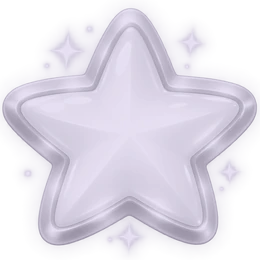
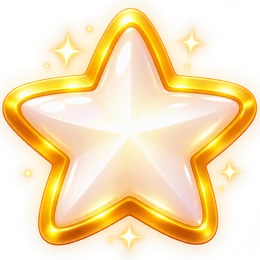
Lit star uses the new gold star; the white star becomes the unlit one
Claude-Session: https://claude.ai/code/session_01AtPrjwobxeDtWKkej1gnXv

diff --git a/sw.js b/sw.js
@@ -1,7 +1,7 @@
 /* BEAM service worker: the game keeps working with no connection.
    The page itself is fetched fresh whenever the network answers, so updates arrive on the next visit;
    everything else (clips, icons) is served from the cache first. Bump VERSION when those files change. */
-const VERSION = 'beam-v19';
+const VERSION = 'beam-v20';
 const SHELL = ['./', 'manifest.webmanifest', 'icon.webp', 'icons/icon-192.png', 'icons/icon-512.png', 'icons/favicon-32.png', 'icons/favicon-96.png', 'icons/apple-180.png', 'media/cheer2.mp4', 'media/fly.mp4', 'media/hero.webp', 'media/garden/bg.webp', 'media/map/bg.webp', 'media/ui/shop.webp', 'media/ui/home.webp', 'media/ui/invite.webp', 'media/ui/trophy.webp', 'media/ui/decor.webp', 'media/ui/duel.webp', 'media/ui/medal.webp', 'media/ui/calendar.webp', 'media/ui/gift.webp', 'media/ui/help.webp', 'media/ui/gear.webp', 'media/ui/star.webp', 'media/board/frame.webp', 'media/board/bg.webp', 'media/board/t-blue.webp', 'media/board/t-green.webp', 'media/board/t-orange.webp', 'media/board/t-purple.webp', 'media/board/wall.webp', 'media/board/bomb.webp', 'media/board/mir-a.webp', 'media/board/mir-b.webp', 'media/board/star.webp', 'media/board/star-off.webp', 'media/board/fly.webp'];
 
 self.addEventListener('install', e => {

diff --git a/index.html b/index.html
@@ -1598,7 +1598,7 @@ function starPath(cx, cy, R, r) {
 function star(g, cx, cy, on, fid) {
   if (painted()) {
     if (on) el('circle', { cx, cy, r: .42, fill: '#FFD23F', opacity: .8, class: 'starglow', filter: fid ? `url(#${fid})` : '' }, g);
-    return pic(g, on ? 'star' : 'star-off', cx - .41, cy - .4, .82, .8, on ? 'st on' : 'st');
+    return on ? pic(g, 'star', cx - .52, cy - .52, 1.04, 1.04, 'st on') : pic(g, 'star-off', cx - .38, cy - .38, .76, .76, 'st');
   }
   if (on) el('circle', { cx, cy, r: .36, fill: 'var(--star)', opacity: .7, class: 'starglow', filter: fid ? `url(#${fid})` : '' }, g);
   el('path', { d: starPath(cx, cy + .02, .3, .13), fill: on ? 'var(--star-d)' : 'rgba(45,27,78,.25)', 'stroke-linejoin': 'round' }, g);
